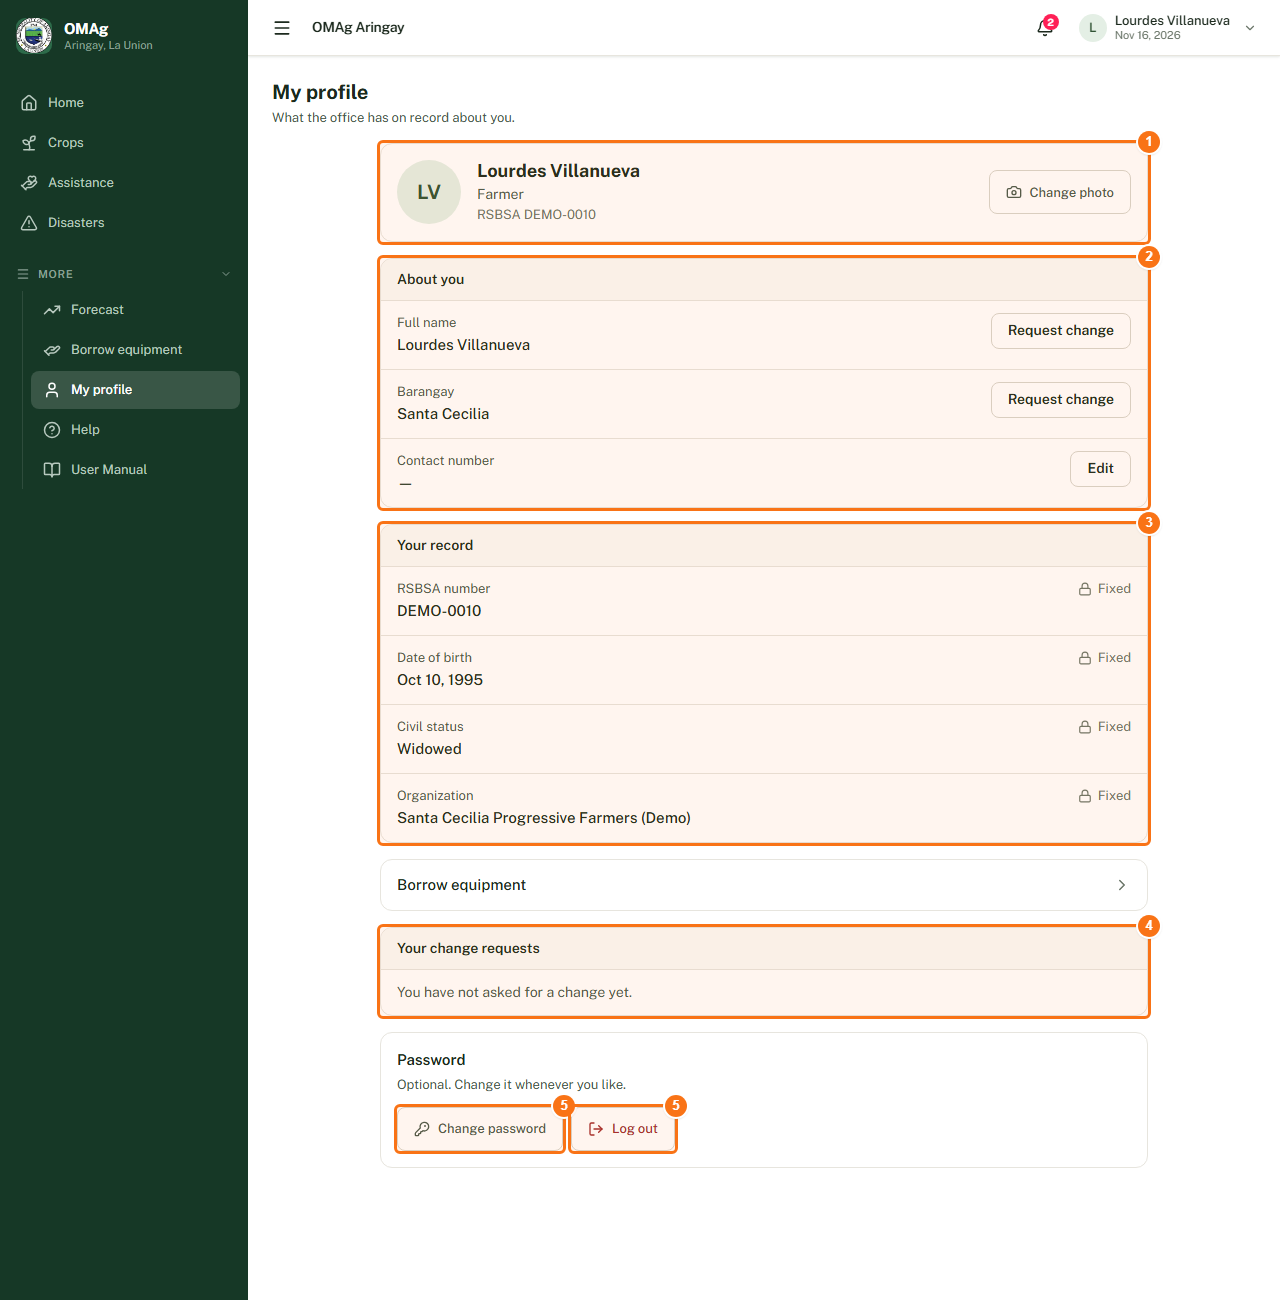
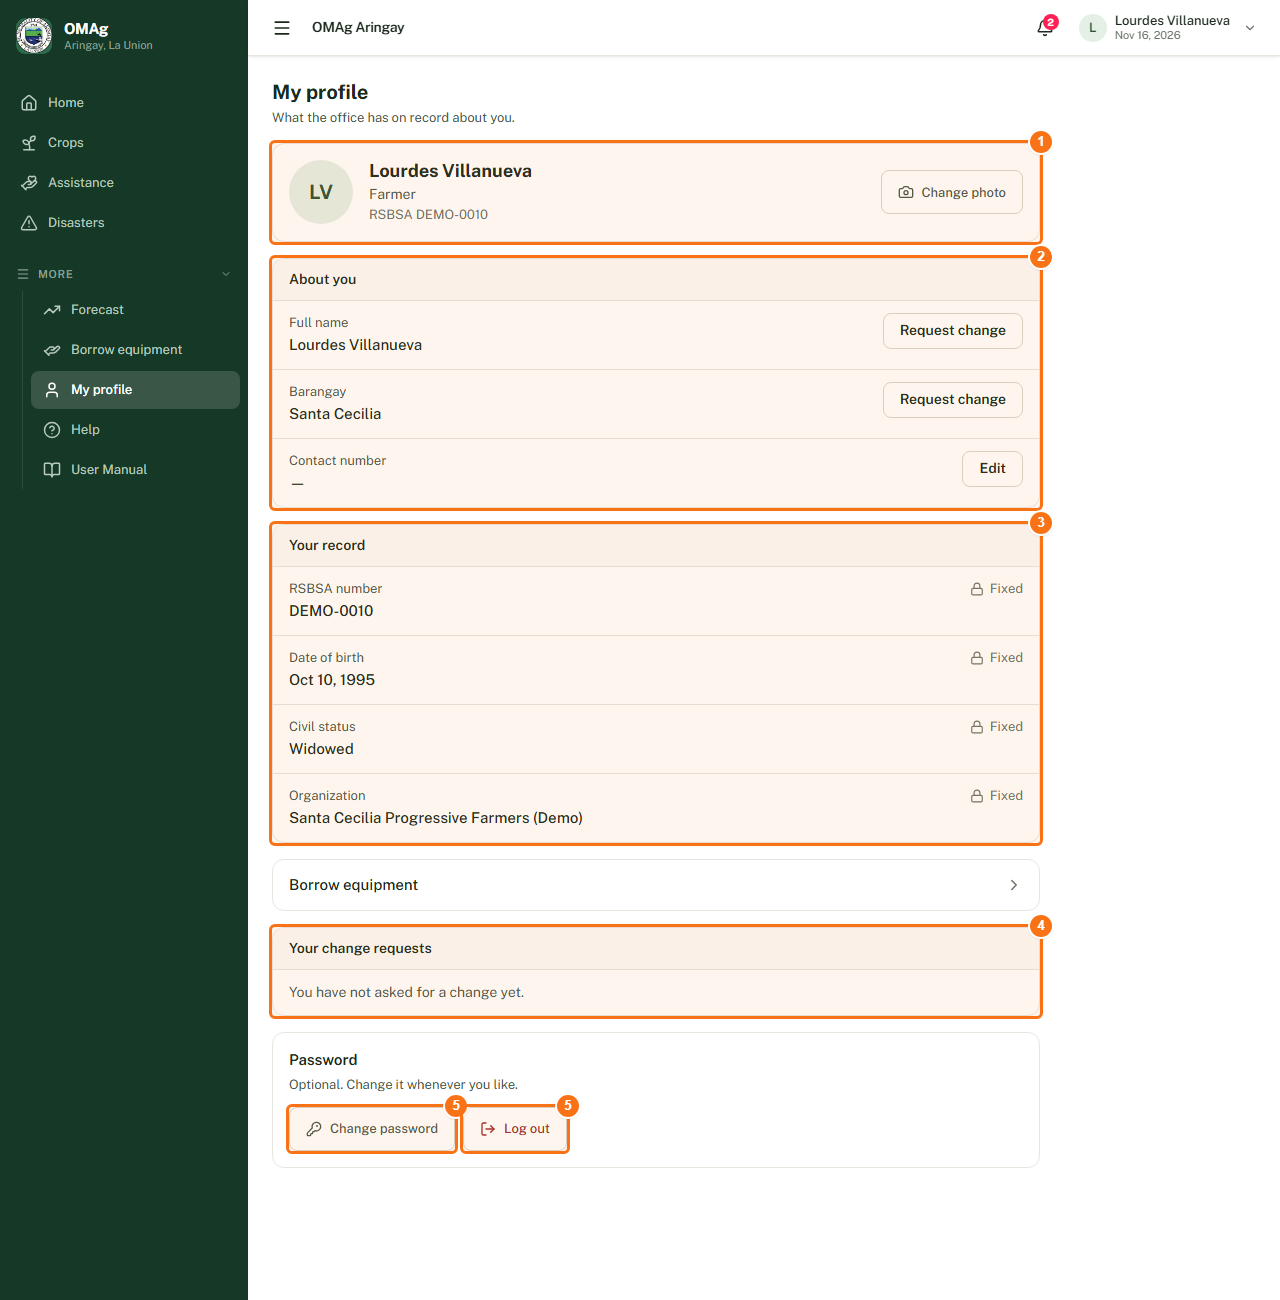
Accounts: the profile cards line up under the page heading on a wide screen

diff --git a/oma-frontend/src/pages/Account/AccountProfilePage.jsx b/oma-frontend/src/pages/Account/AccountProfilePage.jsx
@@ -176,7 +176,7 @@ export default function AccountProfilePage() {
 
   return (
     <AccountPage title={isOrg ? 'Organization profile' : 'My profile'} helper={isOrg ? 'Your organization’s details and account.' : 'What the office has on record about you.'}>
-      <div className="mx-auto max-w-3xl space-y-4">
+      <div className="max-w-3xl space-y-4">
         {error && !open && <p role="alert" className="rounded-[var(--radius-md)] border border-[#F5C6C6] bg-[#FCEBEB] px-4 py-3 text-[14px] text-[#791F1F]">{error}</p>}
 
         <section className={`${CARD} flex flex-col gap-4 p-4 sm:flex-row sm:items-center`}>
